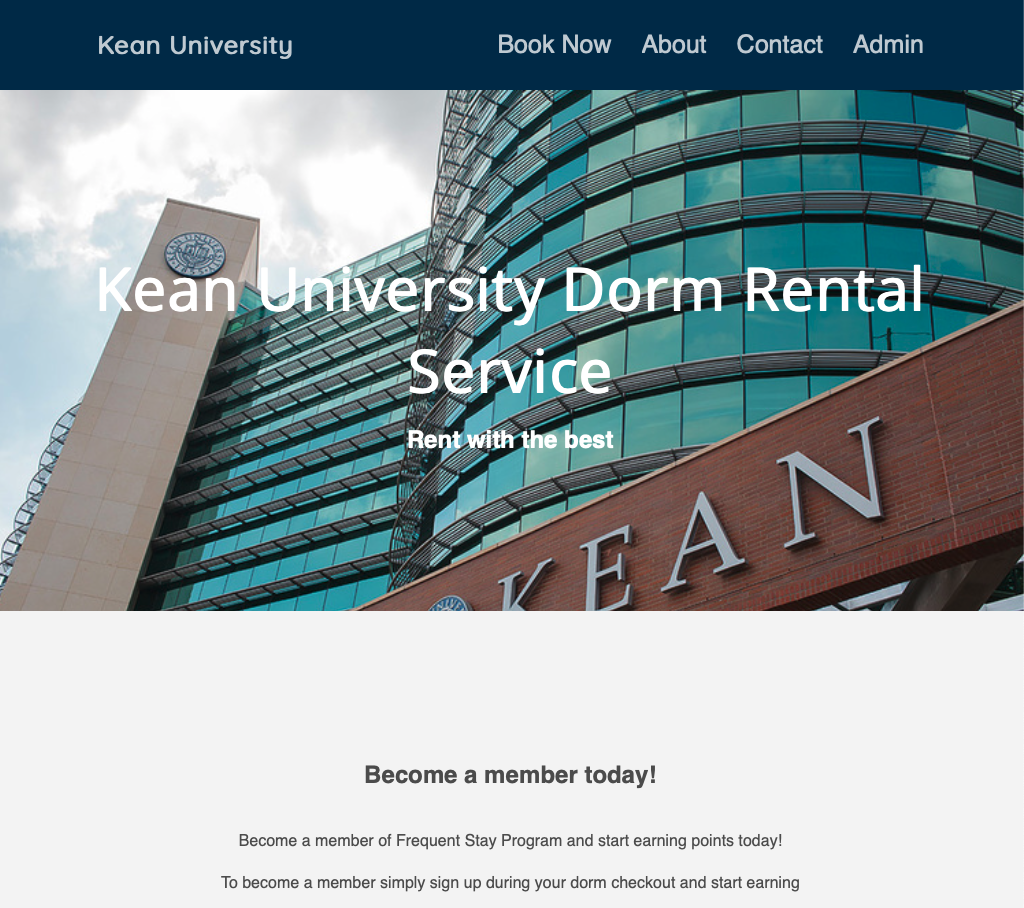
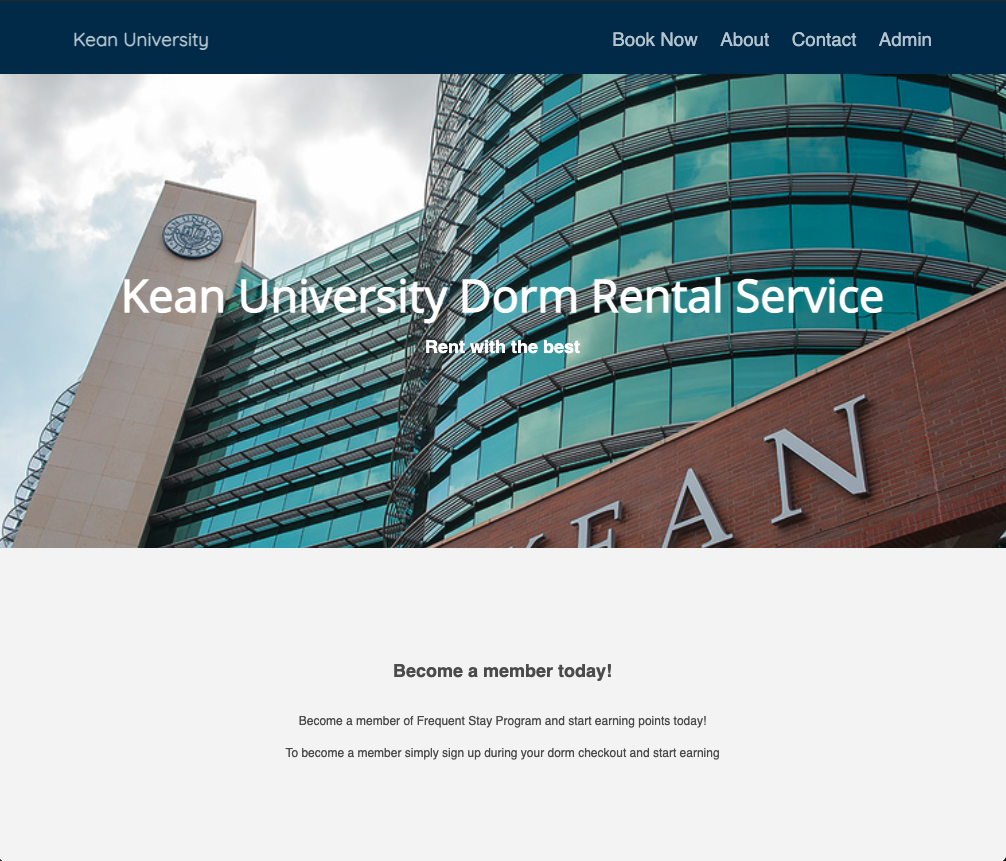
mobile changes

diff --git a/src/Projects/projects.scss b/src/Projects/projects.scss
@@ -70,63 +70,91 @@
   // animation: 1s fadein 0.3s forwards;
 }
 
-.tweak{
-    transform: translateY(-65px) scale(1.05)  ;
-}
+// .tweak{
+//     transform: translateY(-65px) scale(1.05)  ;
+// }
+//
+//
+// .poke{
+//     transform: scale(1.45) translateY(-25px) ;
+// }
+//
+// .kean{
+//     transform: scale(1.2) translateY(-30px) ;
+// }
 
 
-.poke{
-    transform: scale(1.45) translateY(-25px) ;
-}
+// @media only screen and (max-width: 1345px) and (min-width: 1195px)  {
+//   .kean{
+//       transform: scale(1.5);
+//   }
+//   .tweak{
+//       transform: scale(1.2) translateY(-50px) ;
+//   }
+//   .poke{
+//       transform: scale(1.55) translateY(-15px) ;
+//   }
+// }
 
-.kean{
-    transform: scale(1.2) translateY(-30px) ;
-}
 
 
-@media only screen and (max-width: 1345px) and (min-width: 1195px)  {
+
+// @media only screen and (max-width: 1610px) and (min-width: 1485px)  {
+//   .tracker{
+//     transform: scale(2);
+//   }
+// }
+//
+//
+// @media only screen and (max-width: 1099px) and (min-width: 1038px)  {
+//   .tracker{
+//     transform: scale(2);
+//   }
+// }
+
+
+
+
+
+
+
+
+
+
+
+@media only screen and (max-width: 940px) and (min-width: 750px)  {
   .kean{
-      transform: scale(1.5);
+      transform: scale(1.5)  translateY(-50px) ;
   }
   .tweak{
-      transform: scale(1.2) translateY(-50px) ;
+      transform: scale(1.5) translateY(-10px) ;
   }
-  .poke{
-      transform: scale(1.55) translateY(-15px) ;
-  }
-}
 
-@media only screen and (max-width: 940px) and (min-width: 830px)  {
-  .kean{
-      transform: scale(1.5);
+  .image{
+      transform: scale(1.5) translateY(20px) ;
   }
-  .tweak{
-      transform: scale(1.2) translateY(-50px) ;
-  }
-  .poke{
-      transform: scale(1.55) translateY(-15px) ;
-  }
+
 }
 
 
-@media only screen and (min-width: 1750px)  {
-  .kean{
-      transform: scale(1.5);
-  }
-  .tweak{
-      transform: scale(1.2) translateY(-50px) ;
-  }
-  .poke{
-      transform: scale(1.55) translateY(-15px) ;
-  }
-}
+//FOR MOBILE
+// @media only screen and (max-width: 500px)  {
+//   .kean{
+//       transform: scale(1.6);
+//   }
+//   .tweak{
+//       transform: scale(1.6) translateY(-40px);
+//   }
+//   .poke{
+//       transform: scale(1.7);
+//   }
+// }
 
 
 
 
 
 .project-desc:hover{
-
 
   .pic{
     transition-duration: 0.5s;

diff --git a/src/Projects/Projects.js b/src/Projects/Projects.js
@@ -87,7 +87,7 @@ switch(project){
                                       />
                            : <div className="learn_btn" > LEARN MORE </div>  }
                     </div>
-                    <img className="pic poke effect" src="assets/pokemon.png"  alt='pokemon'/>
+                    <img className="pic poke effect" src="assets/poke1.png"  alt='pokemon'/>
              </div>
 
 
@@ -104,7 +104,7 @@ switch(project){
                                         />
                                 : <div className="learn_btn"> LEARN MORE </div>  }
                       </div>
-                      <img className="pic effect" src="../assets/covid.png" alt='covid' />
+                      <img className="pic tracker effect" src="../assets/covid1.png" alt='covid' />
                </div>
 
 
@@ -142,7 +142,7 @@ switch(project){
                                       />
                                        : <div className="learn_btn"> LEARN MORE </div>  }
                     </div>
-                    <img className="pic effect1" src="assets/image.png" alt='image_class' />
+                    <img className="pic image effect1" src="assets/image.png" alt='image_class' />
              </div>
 
 

diff --git a/src/App/App.css b/src/App/App.css
@@ -1,7 +1,6 @@
 
 body{
   font-family: "Helvetica Neue",Helvetica,Arial,sans-serif;
-   /* min-width: 400px; */
    color: #63707E;
    /* background-color: red; */
    /* background: radial-gradient(circle, rgba(255,255,255,1) 0%, rgba(255,255,255,1) 50%, rgba(153,185,251,0.09147408963585435) 100%); */
@@ -20,7 +19,6 @@ body{
   #root{
       margin: 0;
       padding: 0;
-      /* background-color: red; */
     }
 
 }
